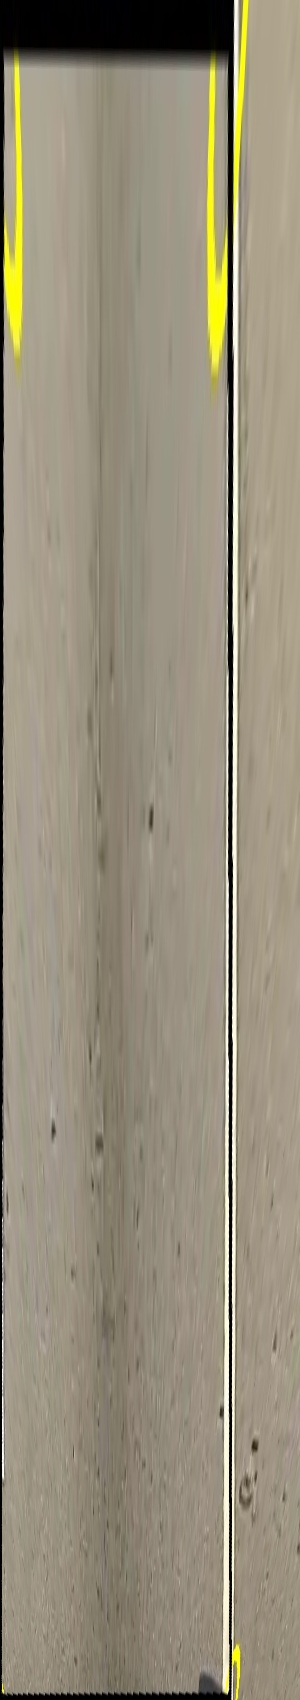
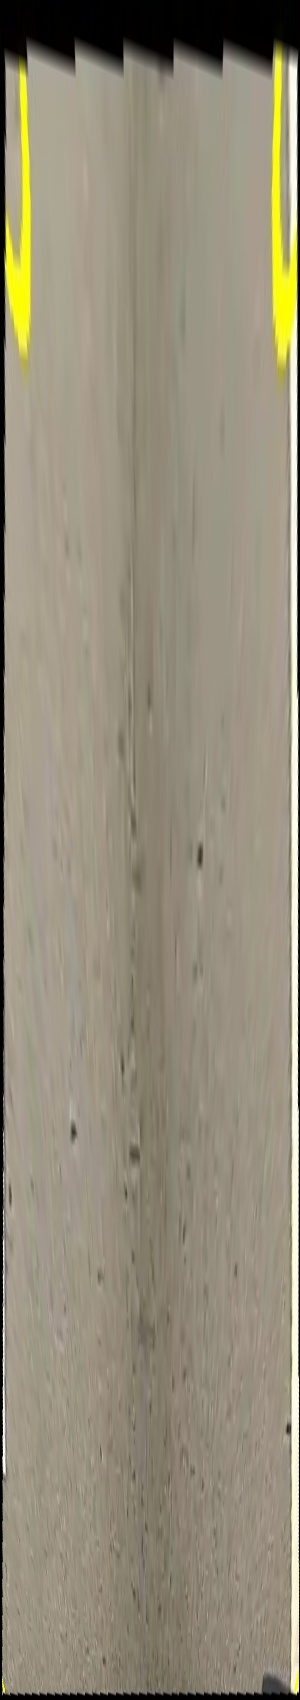
cleaning

diff --git a/test.py b/test.py
@@ -5,25 +5,24 @@ import numpy as np
 img= cv2.imread('0015561.jpg')
 
 #to display image and take in points
-
+plt.figure()
 plt.imshow(img)
 plt.show()
 
 #bottom left cordinates
-bl_x=int(input('please enter bottom left x'))
-bl_y=int(input('please enter bottom left y'))
+bl_x=292
+bl_y=994
 
 #top left cordinates
-tl_x=int(input('please enter top left x'))
-tl_y=int(input('please enter top left y'))
-
+tl_x=564	
+tl_y=763
 #top right cordinates
-tr_x=int(input('please enter top right x'))
-tr_y=int(input('please enter top right y'))
+tr_x=804
+tr_y=757
 
 #bottom right cordinates 
-br_x=int(input('please enter bottom right x'))
-br_y=int(input('please enter bottom right y'))
+br_x=1008
+br_y=956
 
 #visulization purposes
 cv2.circle(img,(bl_x,bl_y),15,(0,255,255),4)
@@ -62,9 +61,9 @@ plt.show()
 cv2.imwrite("birdie.jpg",result)
 
 # camera matrix
-mtx=[[2468.6668434782608,0,1228.876620888020],[0,2468.6668434782608,1012.976060035710],[0,0,1]] 
+mtx=[[1203.032354,0,720.0],[0,1284.609285,540.0],[0,0,1]] 
 #distortion matrix
-dist=[ 0.00125859 , 0 ,  -0.00010658,0 ]
+dist=[ 0 , 0 ,  0,0 ]
 
 #300 pixels correspond to 3.6 meters
 ppx=300/3.6
